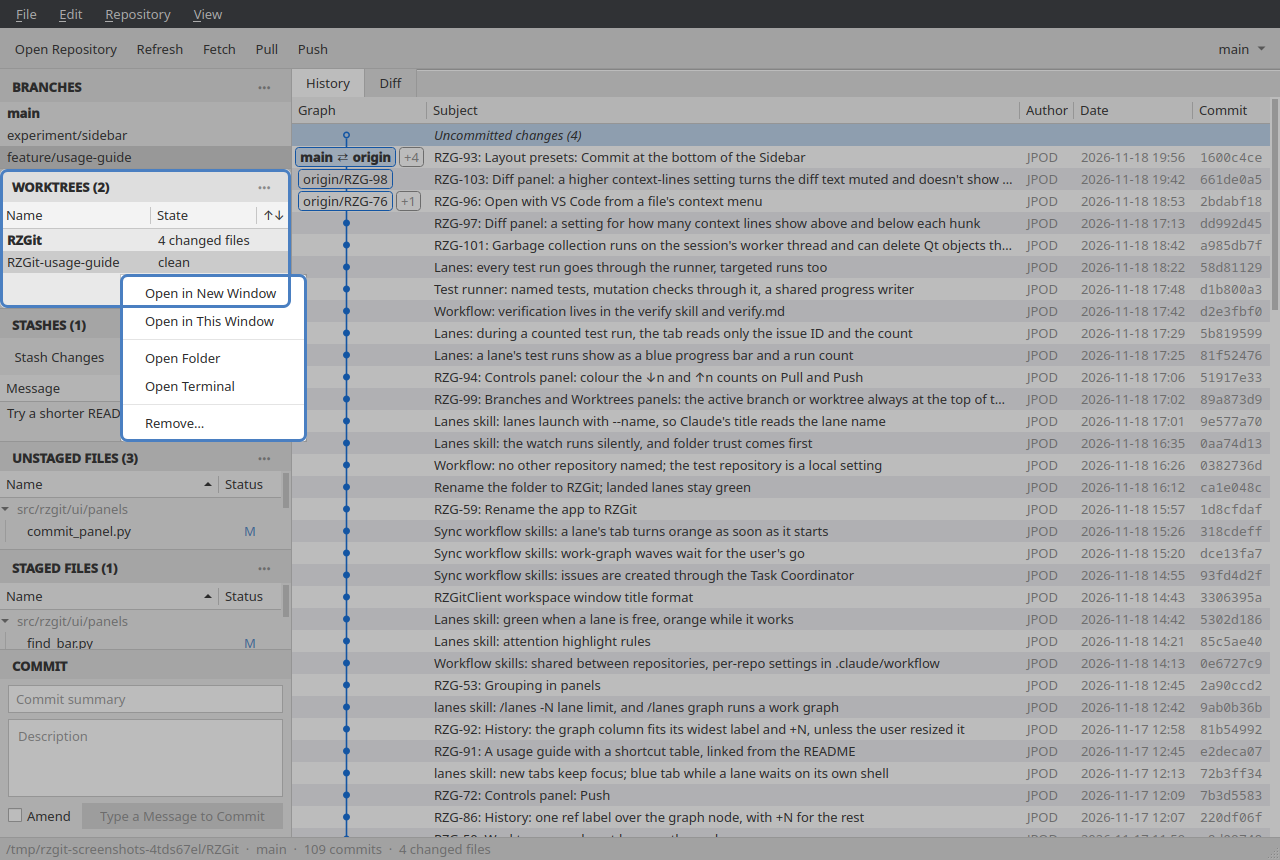
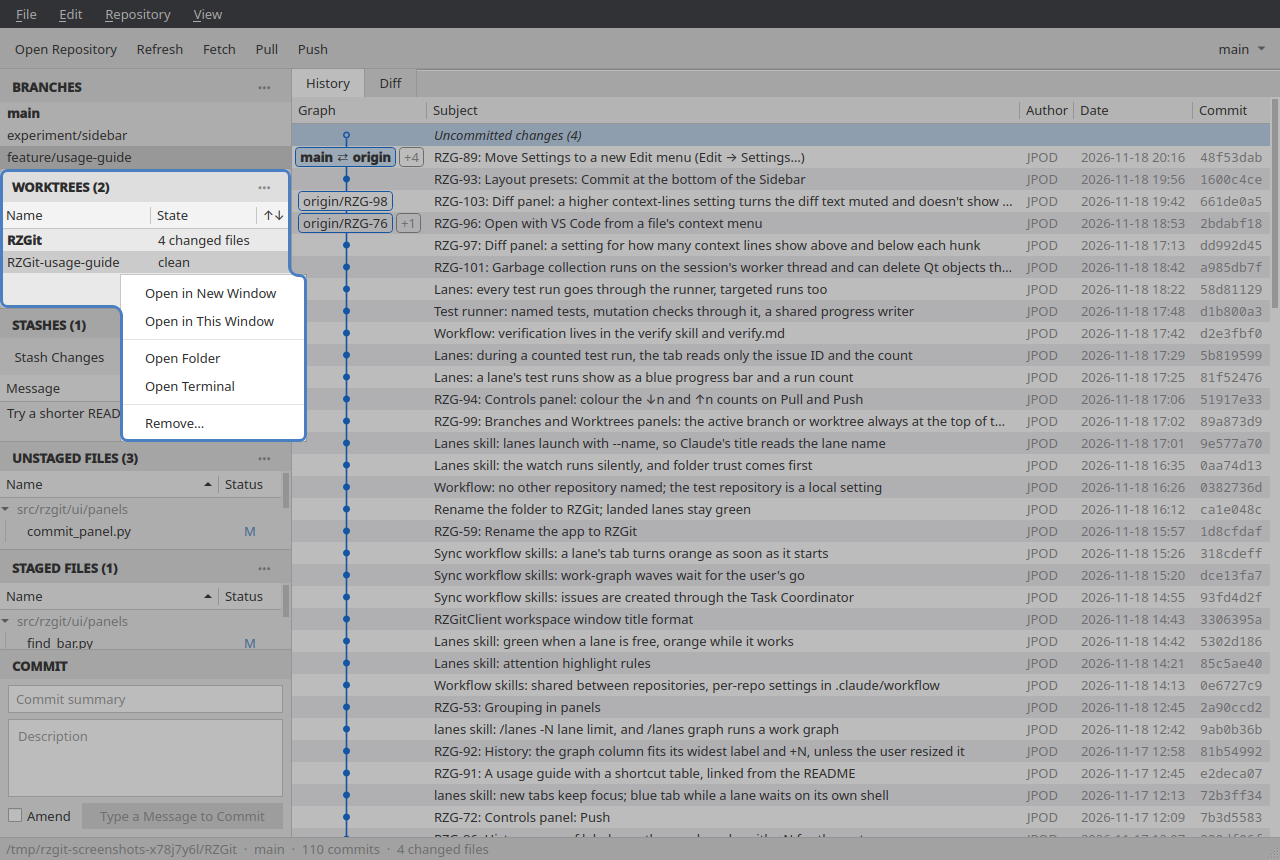
RZG-95: Screenshots: overlapping outlines merge into one outline
Subjects that overlap, such as a context menu over its panel, now get one
outline around their union instead of two rounded rectangles with crossing
lines. Every corner is rounded, inside corners too, and the dimmed area is cut
out along the same shape. Subjects that only sit side by side keep their own
outlines. The shapes are in docs/screenshots/outline_shape.py, which the new
tests import. Every screenshot is made again; the outlines change in files,
stashes and worktrees.

diff --git a/tests/test_outline_shape.py b/tests/test_outline_shape.py
@@ -1,0 +1,79 @@
+import sys
+import unittest
+from pathlib import Path
+
+from PySide6.QtCore import QPointF, QRect, QRectF
+
+sys.path.insert(0, str(Path(__file__).resolve().parents[1] / "docs" / "screenshots"))
+from outline_shape import outline_path, overlap_groups  # noqa: E402
+
+
+class OverlapGroupsTests(unittest.TestCase):
+    """RZG-95: only subjects that overlap share an outline."""
+
+    def test_overlapping_rects_group_and_others_stay_apart(self):
+        panel, menu = QRect(0, 0, 100, 50), QRect(60, 48, 80, 40)  # 2 px over the panel
+        below = QRect(0, 51, 50, 50)  # 1 px below the panel, clear of the menu
+        self.assertEqual(overlap_groups([panel, menu, below]), [[panel, menu], [below]])
+
+    def test_touching_isnt_overlapping(self):
+        a, b = QRect(0, 0, 10, 10), QRect(10, 0, 10, 10)  # side by side, no shared pixel
+        self.assertEqual(overlap_groups([a, b]), [[a], [b]])
+
+    def test_a_chain_is_one_group(self):
+        a, b, c = QRect(0, 0, 10, 10), QRect(8, 0, 10, 10), QRect(16, 0, 10, 10)
+        d = QRect(100, 0, 5, 5)
+        self.assertEqual(overlap_groups([a, c, d, b]), [[a, c, b], [d]])
+
+
+class OutlinePathTests(unittest.TestCase):
+    """RZG-95: one outline around the union, every corner rounded."""
+
+    # An L: a panel, and a menu hanging off its lower right, overlapping it.
+    PANEL, MENU = QRect(0, 0, 100, 50), QRect(60, 40, 80, 60)
+
+    def setUp(self):
+        self.path = outline_path([self.PANEL, self.MENU], 6)
+
+    def test_one_shape_covering_both(self):
+        self.assertEqual(len(self.path.toSubpathPolygons()), 1)
+        for x, y in ((50, 25), (100, 70), (80, 45), (135, 95), (3, 3)):  # in either, or both
+            self.assertTrue(self.path.contains(QPointF(x, y)), (x, y))
+        self.assertFalse(self.path.contains(QPointF(30, 80)))  # below the panel, left of the menu
+        self.assertEqual(self.path.boundingRect().toRect(), QRect(0, 0, 140, 100))
+
+    def test_outside_corners_are_rounded_off(self):
+        for x, y in ((0.5, 0.5), (139.5, 99.5), (60.5, 99.5), (99.5, 0.5)):
+            self.assertFalse(self.path.contains(QPointF(x, y)), (x, y))
+
+    def test_inside_corners_are_rounded_in(self):
+        # Where the panel's bottom meets the menu's left side: the rounding fills it.
+        self.assertTrue(self.path.contains(QPointF(59, 51)))
+        # The other inside corner, where the panel's right side meets the menu's top.
+        self.assertTrue(self.path.contains(QPointF(101, 39)))
+        # Far from both, the outside stays outside.
+        self.assertFalse(self.path.contains(QPointF(50, 60)))
+
+    def test_a_2_px_overlap_is_one_clean_shape(self):
+        # The menu 2 px over the panel (as in the Files screenshot): one shape, no seam.
+        path = outline_path([QRect(0, 0, 100, 50), QRect(60, 48, 80, 40)], 6)
+        self.assertEqual(len(path.toSubpathPolygons()), 1)
+        self.assertEqual(path.boundingRect().toRect(), QRect(0, 0, 140, 88))
+        self.assertTrue(path.contains(QPointF(99, 49)))  # where they overlap
+
+    def test_a_2_px_step_rounds_by_1_px_without_overshooting(self):
+        # The menu's left side 2 px right of the panel's: a 2 px edge in the outline.
+        path = outline_path([QRect(0, 0, 100, 50), QRect(2, 40, 80, 40)], 6)
+        self.assertEqual(len(path.toSubpathPolygons()), 1)
+        self.assertEqual(path.boundingRect(), QRectF(0, 0, 100, 80))  # nothing sticks out
+        self.assertTrue(path.contains(QPointF(1, 49)))  # beside the step, inside the panel
+
+    def test_a_single_rect_is_a_rounded_rect(self):
+        path = outline_path([QRect(0, 0, 40, 20)], 6)
+        self.assertTrue(path.contains(QPointF(20, 10)))
+        self.assertFalse(path.contains(QPointF(0.5, 0.5)))
+        self.assertTrue(path.contains(QPointF(6, 0.5)))  # the straight edge past the corner
+
+
+if __name__ == "__main__":
+    unittest.main()

diff --git a/docs/screenshots/outline_shape.py b/docs/screenshots/outline_shape.py
@@ -1,0 +1,89 @@
+"""The outlines of the usage guide's screenshots (RZG-95, ARCHITECTURE.md §10.1).
+
+Subjects that overlap, such as a menu over its panel, get one outline around
+their union instead of a rectangle each with crossing lines. Every corner of
+that outline is rounded, inside corners too. No side effects on import, unlike
+make_screenshots.py, so the tests can use it.
+"""
+
+from __future__ import annotations
+
+from collections.abc import Sequence
+
+from PySide6.QtCore import QPointF, QRect, QRectF
+from PySide6.QtGui import QPainterPath
+
+KAPPA = 0.5523  # a cubic Bézier's handle length for a quarter circle, as a share of its radius
+
+
+def overlap_groups(rects: Sequence[QRect]) -> list[list[QRect]]:
+    """``rects`` in groups that overlap, directly or through others, in the order
+    each group's first rectangle comes. Rectangles that only touch, or sit a
+    pixel apart (panels in a split), stay apart."""
+    parent = list(range(len(rects)))
+
+    def root(i: int) -> int:
+        while parent[i] != i:
+            parent[i] = parent[parent[i]]
+            i = parent[i]
+        return i
+
+    for i, a in enumerate(rects):
+        for j in range(i + 1, len(rects)):
+            if a.intersects(rects[j]):
+                parent[root(j)] = root(i)
+    groups: dict[int, list[QRect]] = {}
+    for i, rect in enumerate(rects):
+        groups.setdefault(root(i), []).append(rect)
+    return list(groups.values())
+
+
+def outline_path(rects: Sequence[QRect], radius: float) -> QPainterPath:
+    """The union of ``rects`` as one outline, with every corner rounded by
+    ``radius``, or less where an edge is too short for it."""
+    union = QPainterPath()
+    for rect in rects:
+        piece = QPainterPath()
+        piece.addRect(QRectF(rect))
+        union = union.united(piece)  # one outline (simplified() would leave seams)
+    path = QPainterPath()
+    for polygon in union.toSubpathPolygons():
+        corners = _corners([QPointF(p) for p in polygon])
+        if len(corners) >= 3:
+            _add_rounded(path, corners, radius)
+    return path
+
+
+def _corners(points: list[QPointF]) -> list[QPointF]:
+    """``points`` (a closed polygon) without the repeated last point and without
+    points in the middle of a straight edge."""
+    if len(points) > 1 and points[0] == points[-1]:
+        points = points[:-1]
+    corners = []
+    for i, p in enumerate(points):
+        before, after = points[i - 1], points[(i + 1) % len(points)]
+        cross = (p.x() - before.x()) * (after.y() - p.y()) - (p.y() - before.y()) * (after.x() - p.x())
+        if abs(cross) > 1e-9:
+            corners.append(p)
+    return corners
+
+
+def _add_rounded(path: QPainterPath, corners: list[QPointF], radius: float) -> None:
+    """Add the closed polygon ``corners`` to ``path``, each corner a quarter-circle
+    curve that starts and ends ``radius`` (or half the shorter edge) from it."""
+    turns = []
+    for i, corner in enumerate(corners):
+        before, after = corners[i - 1], corners[(i + 1) % len(corners)]
+        r = min(radius, _length(corner - before) / 2, _length(after - corner) / 2)
+        start = corner + (before - corner) * (r / _length(before - corner))
+        end = corner + (after - corner) * (r / _length(after - corner))
+        turns.append((start, corner, end))
+    path.moveTo(turns[0][0])
+    for start, corner, end in turns:
+        path.lineTo(start)
+        path.cubicTo(start + (corner - start) * KAPPA, end + (corner - end) * KAPPA, end)
+    path.closeSubpath()
+
+
+def _length(p: QPointF) -> float:
+    return (p.x() ** 2 + p.y() ** 2) ** 0.5

diff --git a/docs/screenshots/make_screenshots.py b/docs/screenshots/make_screenshots.py
@@ -39,6 +39,7 @@ from PySide6.QtGui import QColor, QFont, QIcon, QPainter, QPainterPath, QPen, QP
 from PySide6.QtWidgets import (QAbstractItemView, QAbstractScrollArea, QApplication, QMenu,  # noqa: E402
                                QTabWidget, QToolButton, QWidget)  # noqa: E402
 
+from outline_shape import outline_path, overlap_groups  # noqa: E402  (beside this script)
 from rzgit.core.app_settings import AppSettings  # noqa: E402
 from rzgit.core.column_prefs import ColumnPrefs  # noqa: E402
 from rzgit.core.commit_drafts import CommitDrafts  # noqa: E402
@@ -263,20 +264,35 @@ class Picture:
         painter.drawPixmap(QPoint(0, 0), self.image)
         for image, at in self.overlays:
             painter.drawPixmap(at, image)
+        # Overlapping subjects (a menu over its panel) share one outline (RZG-95).
+        groups = overlap_groups(self.subjects)
         if dim and self.subjects:
             path = QPainterPath()
             path.addRect(QRectF(bounds))
-            for rect in self.subjects:
+            for group in groups:
                 hole = QPainterPath()
-                hole.addRoundedRect(QRectF(rect), OUTLINE_RADIUS, OUTLINE_RADIUS)
+                if len(group) == 1:
+                    hole.addRoundedRect(QRectF(group[0]), OUTLINE_RADIUS, OUTLINE_RADIUS)
+                else:
+                    hole = outline_path(group, OUTLINE_RADIUS)
                 path = path.subtracted(hole)
             painter.fillPath(path, self.app.dim)
         painter.setPen(QPen(self.app.accent, OUTLINE_WIDTH))
         painter.setBrush(Qt.BrushStyle.NoBrush)
         inset = OUTLINE_WIDTH / 2
-        for rect in self.subjects:
-            painter.drawRoundedRect(QRectF(rect).adjusted(inset, inset, -inset, -inset),
-                                    OUTLINE_RADIUS, OUTLINE_RADIUS)
+        for group in groups:
+            if len(group) == 1:
+                painter.drawRoundedRect(QRectF(group[0]).adjusted(inset, inset, -inset, -inset),
+                                        OUTLINE_RADIUS, OUTLINE_RADIUS)
+                continue
+            # The same edges as a single subject's: a stroke centred on the shape
+            # inset by half its width is a doubled stroke of the shape, clipped to it.
+            shape = outline_path(group, OUTLINE_RADIUS + inset)
+            painter.save()
+            painter.setClipPath(shape)
+            painter.setPen(QPen(self.app.accent, 2 * OUTLINE_WIDTH))
+            painter.drawPath(shape)
+            painter.restore()
         font = QFont(self.app.qt.font())
         font.setBold(True)
         font.setPixelSize(13)

diff --git a/docs/ARCHITECTURE.md b/docs/ARCHITECTURE.md
@@ -2939,6 +2939,13 @@ on it. The README links to it at the top.
   alpha, and adds numbered badges (`accent`, `accent_text`) that the guide's text refers
   to. Context menus are grabbed and drawn where they would open. It reads the panels'
   private widgets, so a change to a panel may need a change to its shot.
+  - **Outlines that overlap merge** (RZG-95), such as a menu over its panel: each group
+    of overlapping subjects gets one outline around their union, with every corner
+    rounded (inside corners too, at `OUTLINE_RADIUS` or less on a short edge), and the dimmed
+    area is cut out along the same shape. Subjects that only sit side by side, even 1 px
+    apart like panels in a split, keep their own outlines. The shapes are
+    `docs/screenshots/outline_shape.py` (`overlap_groups`, `outline_path`), which has no
+    side effects, so `tests/test_outline_shape.py` imports it.
 
 ## 11. Conventions
 
